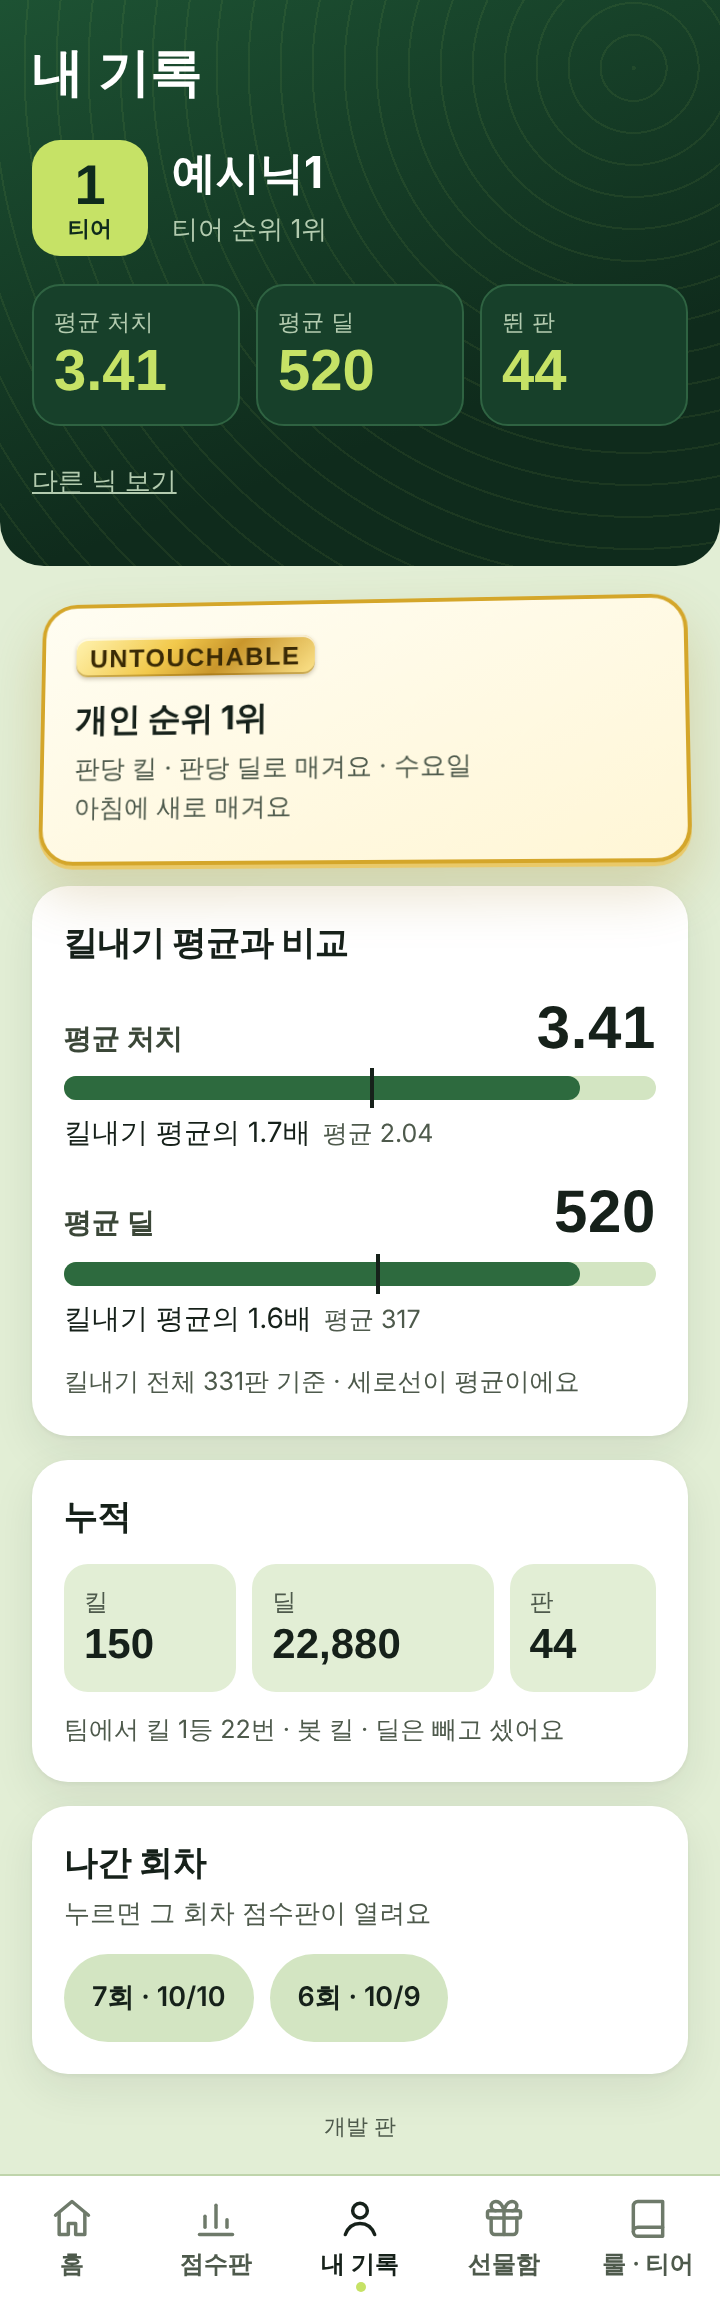
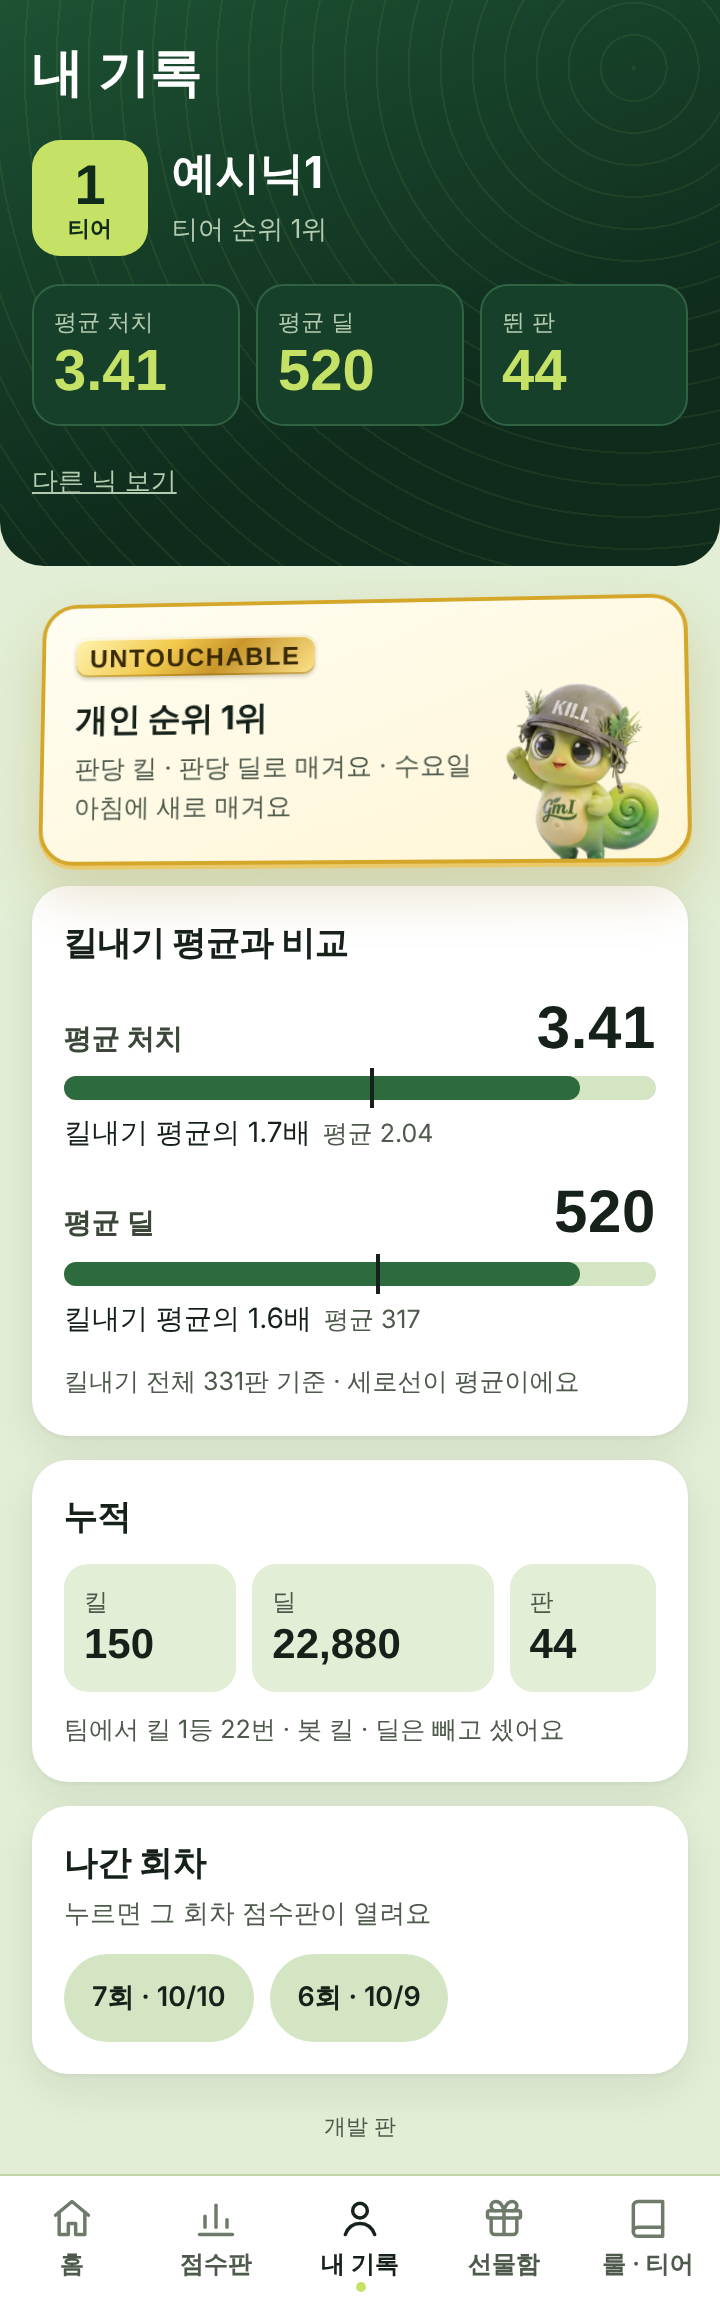
무뚝이 그림 넣기 — 승리 포즈(기준) · 기본 포즈 webp 512 · 256 (지휘 전달 · sha256 확인)
- app/assets/mutteok-{victory,base}-{512,256}.webp — 512 는 전달받은 그대로, 256 은 줄여 만듦
- 홈 히어로 · 1위 카드 · 1등 팀 줄 = 승리 포즈 · 기본 포즈는 배 글자가 Gml 처럼 보여 작은 자리(로딩 40px · 빈 화면 72px)에만
- 스크린샷 5장 무뚝이 보이게 다시 찍음 · 첫 화면 이미지 합계 3배 화면 기준 약 65KB

Claude-Session: https://claude.ai/code/session_01VZpurRErTSq9Jq5fnBM9T2

Changed region(s): [[0.7028, 0.2812, 0.9167, 0.375]]

diff --git a/killnaegi-app.html b/killnaegi-app.html
@@ -52,8 +52,8 @@
   --display:'Saira Condensed','IBM Plex Sans KR',sans-serif;
   --font:'IBM Plex Sans KR',-apple-system,BlinkMacSystemFont,'Apple SD Gothic Neo',sans-serif;
   --r-card:18px; --r-btn:14px; --bar:64px;
-  /* 무뚝이(킬내기 마스코트 · 10/13 오너) — 이미지는 app/assets 의 webp. 파일을 못 읽으면 html.has-mt 가 안 붙어 그림 자리만 비고 화면은 그대로 */
-  --mt-base:url(app/assets/muttuki-base-256.webp); --mt-win:url(app/assets/muttuki-win-256.webp);
+  /* 무뚝이(킬내기 마스코트 · 10/13 오너) — 이미지는 app/assets 의 webp. 기준 그림은 승리 포즈(victory) · 기본 포즈(base)는 배 글자가 Gml 처럼 보여 작은 자리(로딩 · 빈 화면)에만. 파일을 못 읽으면 html.has-mt 가 안 붙어 그림 자리만 비고 화면은 그대로 */
+  --mt-base:url(app/assets/mutteok-base-256.webp); --mt-win:url(app/assets/mutteok-victory-256.webp);
   --gold:linear-gradient(135deg,#FFF3B0 0%,#F2C94C 38%,#C9962B 62%,#FCE38A 100%);
   --gold-line:#D4A62A;
 }
@@ -364,7 +364,7 @@ details p{font-size:14px;color:var(--body);padding:0 0 12px;}
 .jungle .lv.b{animation-duration:7s;animation-delay:-2s;}
 .jungle .lv.c{animation-duration:6.2s;animation-delay:-4s;}
 .mt-hero{position:absolute;left:22px;bottom:6px;width:104px;height:104px;background:none;}
-.has-mt .mt-hero{background:var(--mt-base) center bottom/contain no-repeat;background-image:image-set(url(app/assets/muttuki-base-256.webp) 1x,url(app/assets/muttuki-base-512.webp) 3x);
+.has-mt .mt-hero{background:var(--mt-win) center bottom/contain no-repeat;background-image:image-set(url(app/assets/mutteok-victory-256.webp) 1x,url(app/assets/mutteok-victory-512.webp) 3x);
   filter:drop-shadow(0 6px 10px rgba(0,0,0,.35));}
 @keyframes sway{0%{transform:rotate(-3deg);}100%{transform:rotate(3deg);}}
 
@@ -372,7 +372,7 @@ details p{font-size:14px;color:var(--body);padding:0 0 12px;}
 .has-mt .card .wait{display:flex;align-items:center;gap:8px;}
 .has-mt .card .wait::before{content:"";flex:0 0 auto;width:40px;height:40px;background:var(--mt-base) center/contain no-repeat;transform-origin:50% 90%;animation:nod 1.6s ease-in-out infinite;}
 @keyframes nod{0%,100%{transform:rotate(0);}30%{transform:rotate(-7deg);}60%{transform:rotate(4deg);}}
-.has-mt .msg.empty::before{content:"";display:block;width:96px;height:96px;margin:0 auto 8px;background:var(--mt-base) center/contain no-repeat;}
+.has-mt .msg.empty::before{content:"";display:block;width:72px;height:72px;margin:0 auto 8px;background:var(--mt-base) center/contain no-repeat;}
 
 /* 1위 순간 — 개인 순위 1위 카드 · 점수판 1등 팀: 승리 포즈 무뚝이 + 금빛 테두리 · 1위 카드는 살짝 기운 입체 + 빛 한 번 */
 .rank1{position:relative;overflow:hidden;border:2px solid var(--gold-line);background:linear-gradient(160deg,#FFFDF2 0%,#FFF6D6 100%);
@@ -1610,7 +1610,7 @@ details p{font-size:14px;color:var(--body);padding:0 0 12px;}
     var go = function () {
       var im = new Image();
       im.onload = function () { document.documentElement.classList.add("has-mt"); };
-      im.src = "app/assets/muttuki-base-256.webp";
+      im.src = "app/assets/mutteok-victory-256.webp";
     };
     var idle = function () { (window.requestIdleCallback || function (f) { setTimeout(f, 200); })(go); };
     if (document.readyState === "complete") idle(); else window.addEventListener("load", idle);
